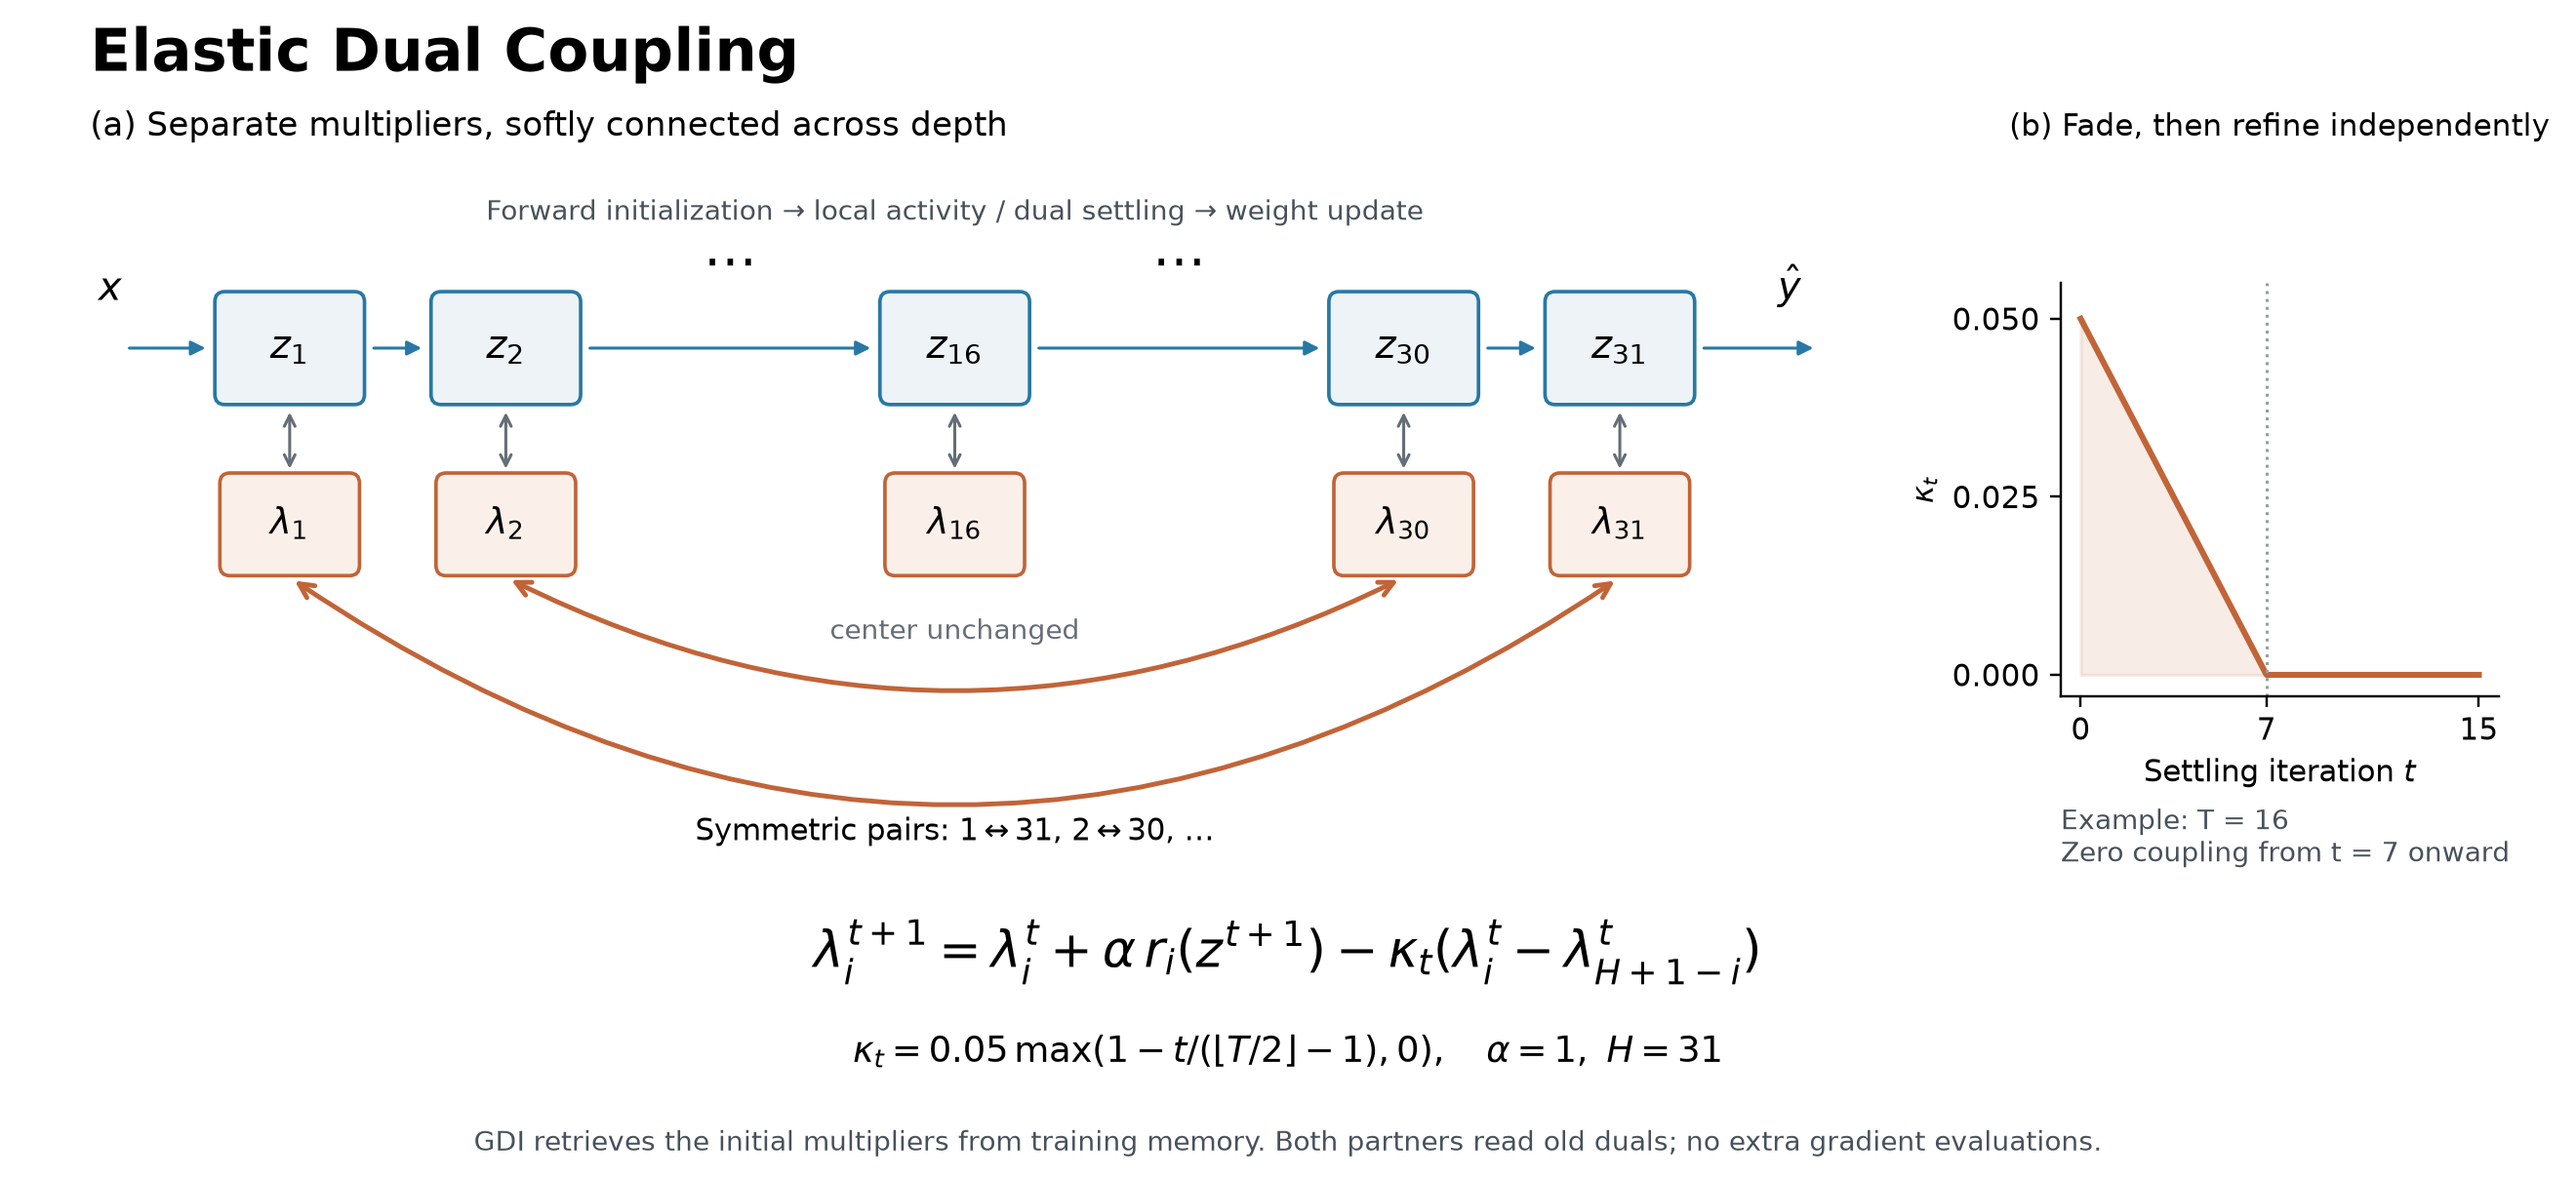
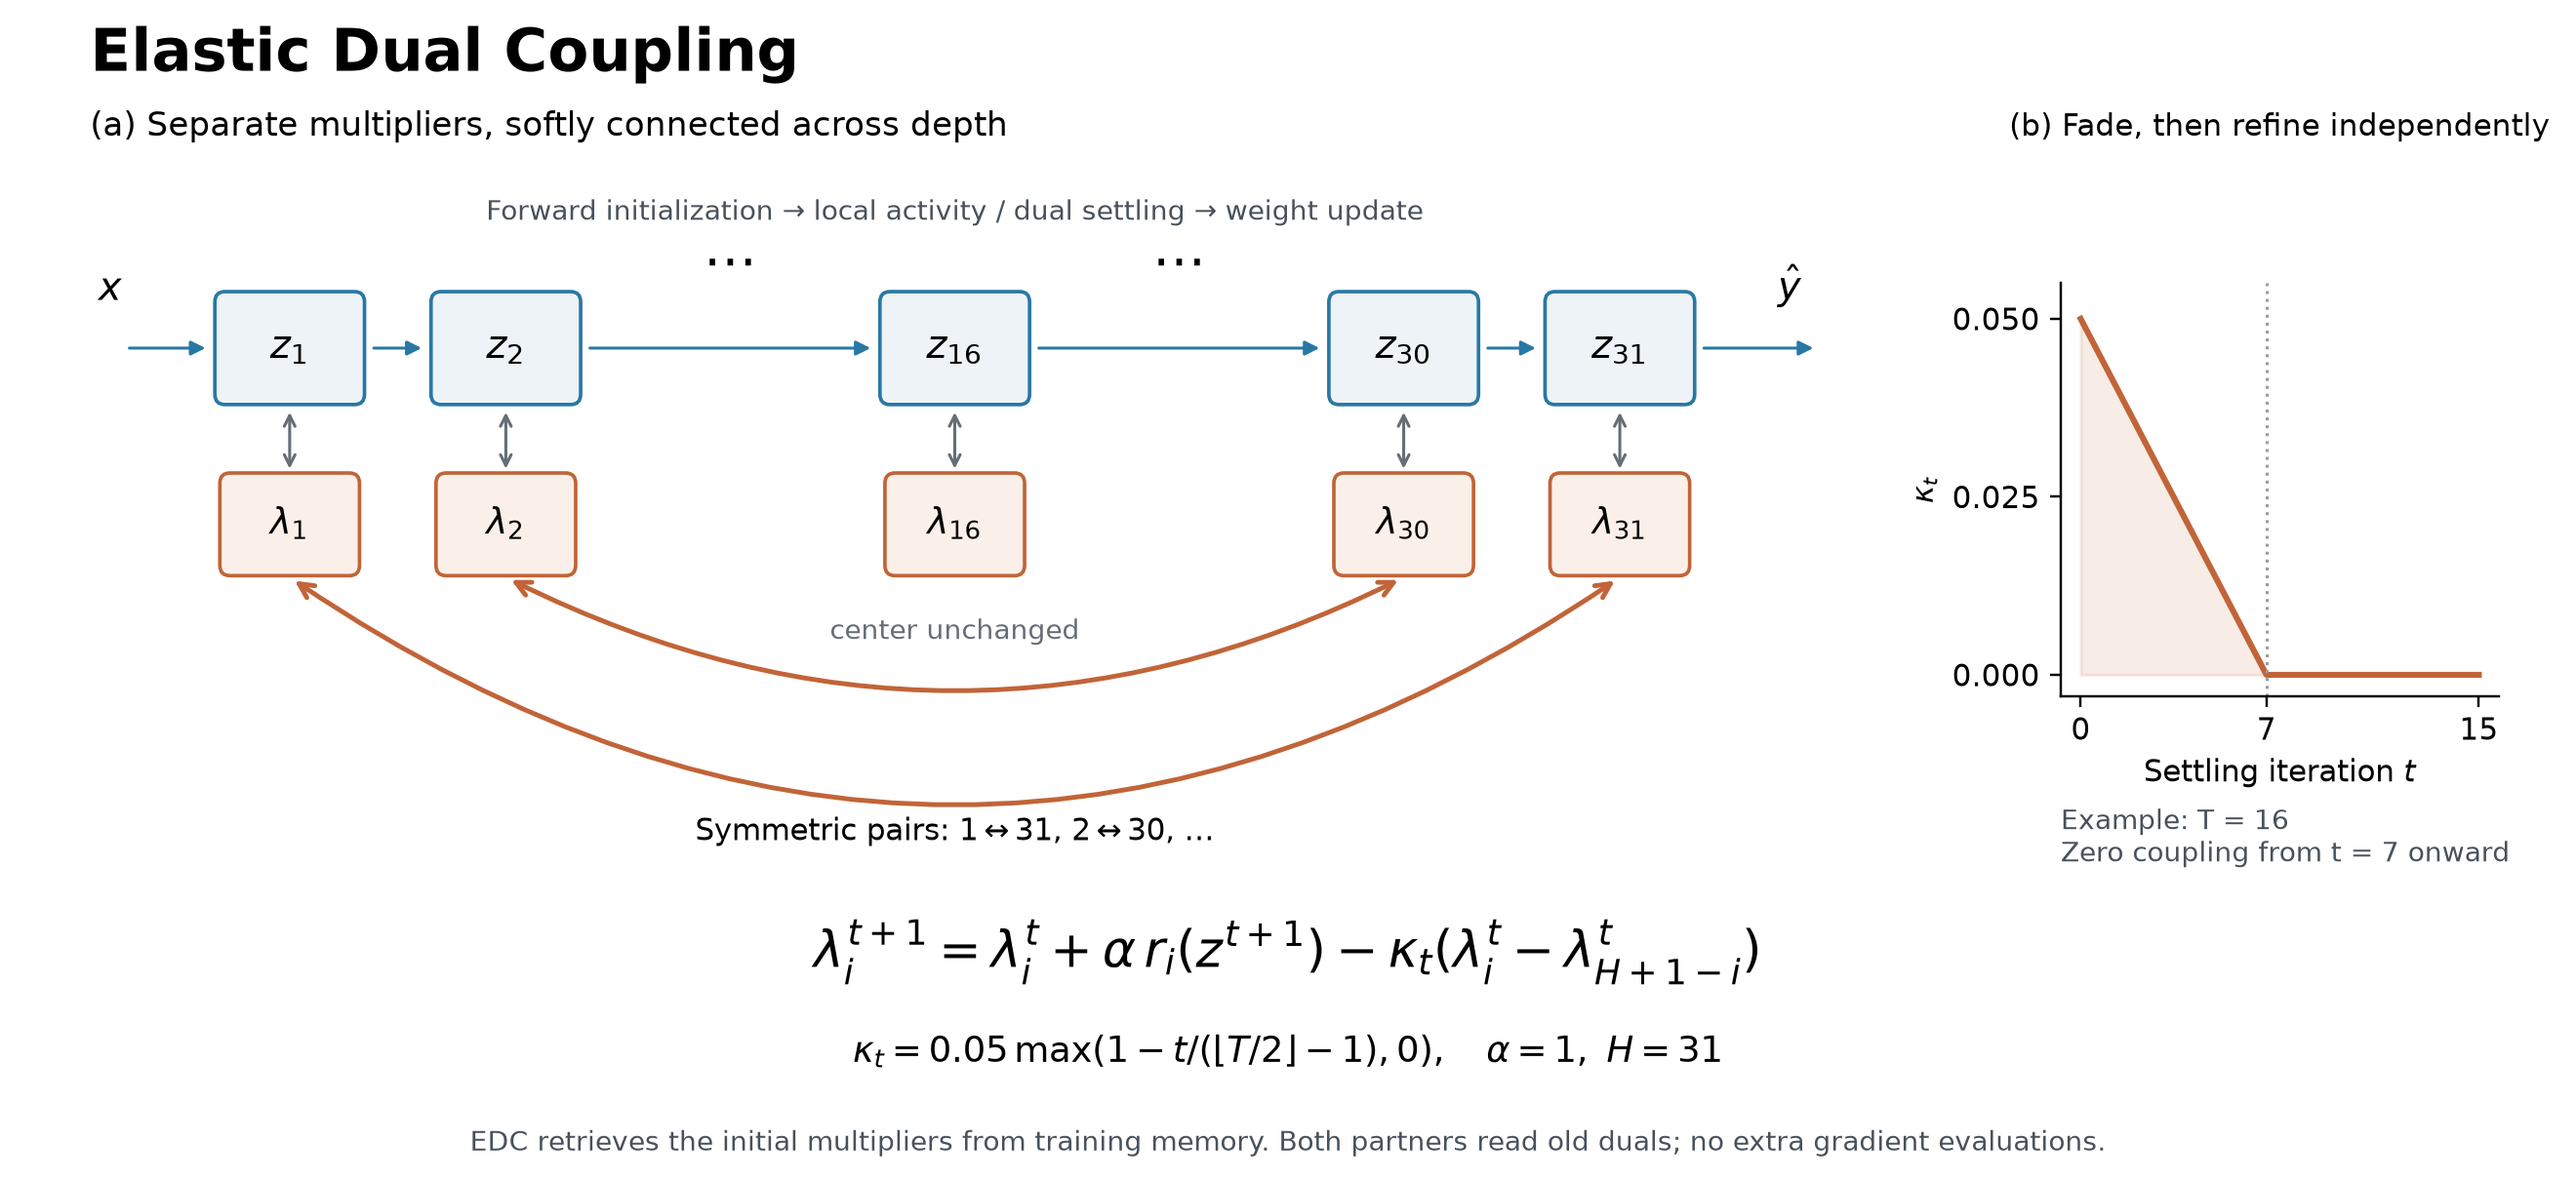
fix: use EDC in architecture figure caption

Changed region(s): [[0.1864, 0.9479, 0.8076, 0.9785]]

diff --git a/experiments/figures.py b/experiments/figures.py
@@ -292,7 +292,7 @@ fig.text(
 fig.text(
     0.50,
     0.025,
-    "GDI retrieves the initial multipliers from training memory. "
+    "EDC retrieves the initial multipliers from training memory. "
     "Both partners read old duals; no extra gradient evaluations.",
     ha="center",
     fontsize=9,
